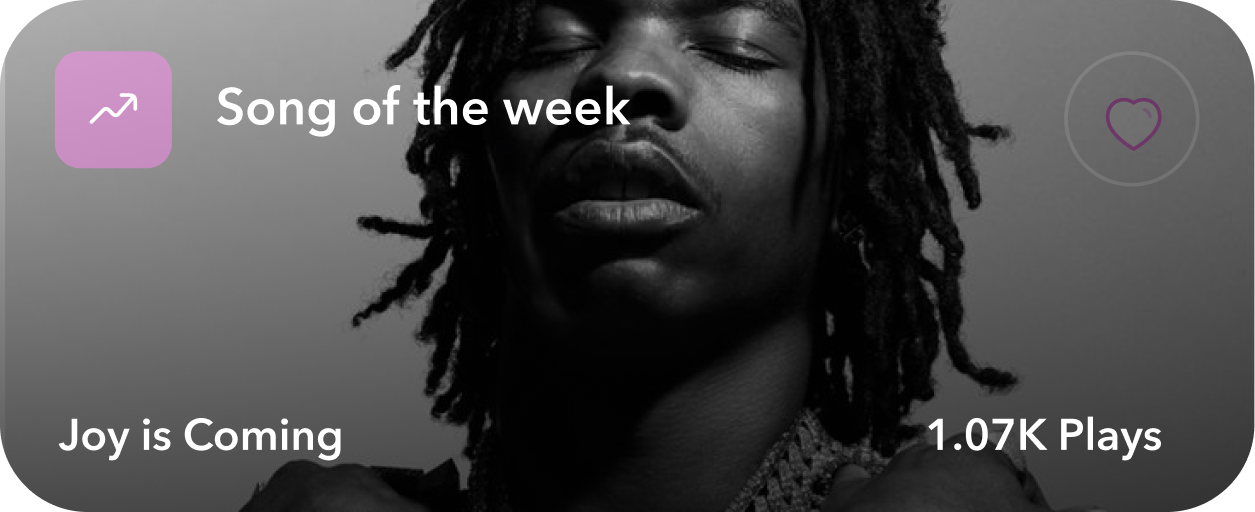
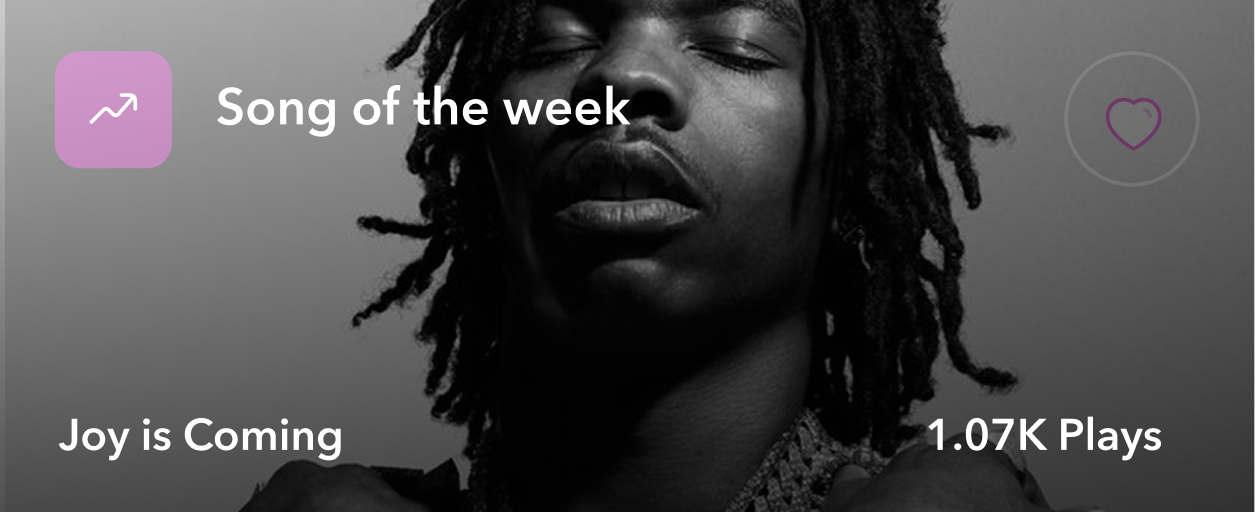
cleaning up

diff --git a/src/screens/dashboard/explore/modals/ConnectionRequests.tsx b/src/screens/dashboard/explore/modals/ConnectionRequests.tsx
@@ -1,3 +1,4 @@
+/* eslint-disable react-native/no-inline-styles */
 import React, {useCallback, useRef} from 'react';
 import {Box, Text} from 'design-system';
 import {BaseModal, FlashMessageToast, Loader, ModalHeader} from 'shared';
@@ -8,6 +9,7 @@ import {styles} from './style';
 import {GradientBorderView} from '@good-react-native/gradient-border';
 import {useSetHandleConnection} from 'store';
 import FlashMessage, {showMessage} from 'react-native-flash-message';
+import {EmptyPromotionContainer} from 'screens/dashboard/promotions/components';
 
 interface ConnectionRequestsProps {
   isVisible: boolean;
@@ -153,13 +155,15 @@ export const ConnectionRequests = ({
               </Box>
             </Box>
           )}
+          ListEmptyComponent={
+            <EmptyPromotionContainer
+              containerStyles={{my: hp(220)}}
+              icon="connection-count"
+              title="No Connection Requests"
+              subTitle="You can view all connection requests as soon as they are accepted"
+            />
+          }
         />
-
-        {/* <Box>
-          {connectionRequests?.map(request => {
-            return <Text>{request.name}</Text>;
-          })}
-        </Box> */}
       </Box>
 
       <Loader loading={isPending} />

diff --git a/src/screens/dashboard/home/index.tsx b/src/screens/dashboard/home/index.tsx
@@ -276,7 +276,7 @@ export const Home = () => {
               <Image
                 source={theme.images.trending}
                 style={styles.trendingImage}
-                resizeMode="contain"
+                resizeMode="cover"
               />
 
               <Box
@@ -293,7 +293,7 @@ export const Home = () => {
         ) : null}
       </ScrollView>
 
-      <Loader loading={isPending} />
+      {userType === 'artiste' && <Loader loading={isPending} />}
     </Screen>
   );
 };

diff --git a/src/screens/dashboard/home/style.ts b/src/screens/dashboard/home/style.ts
@@ -10,6 +10,7 @@ export const styles = StyleSheet.create({
     width: wp(350),
     height: hp(140),
     marginTop: hp(10),
+    borderRadius: hp(16),
   },
   gradientContainer: {
     borderWidth: 1,
